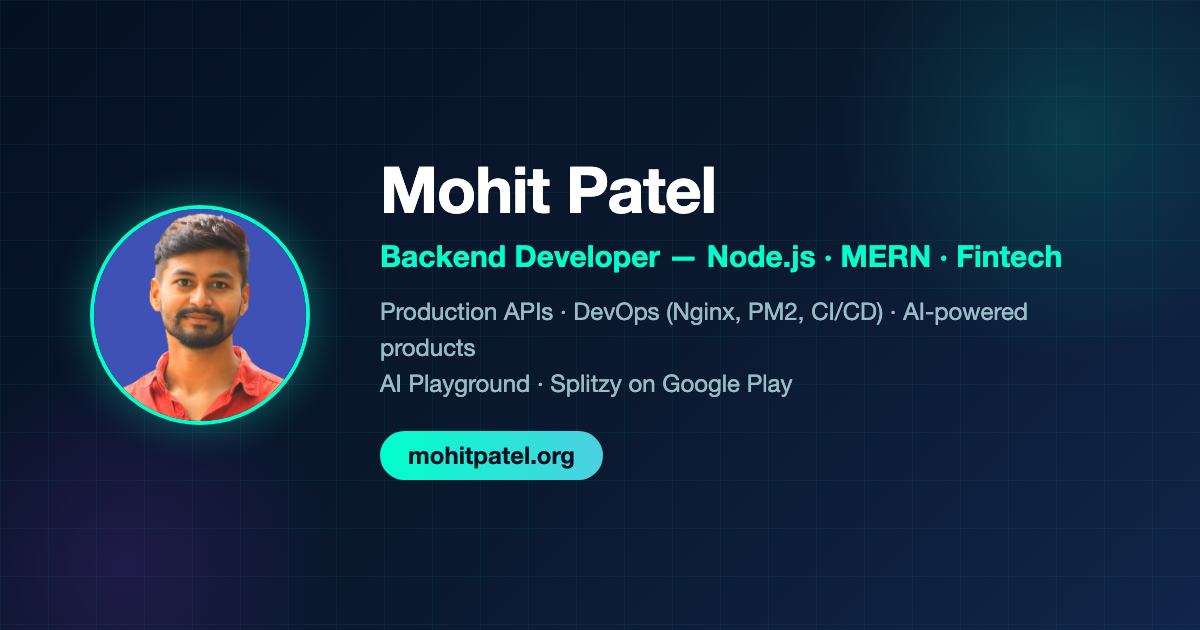
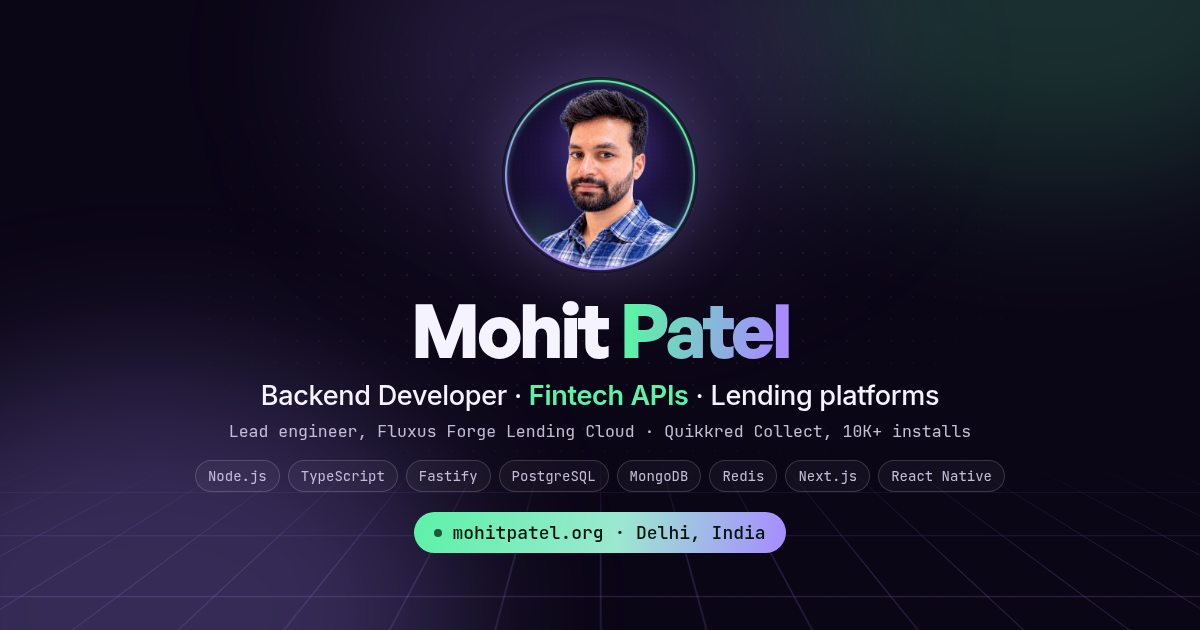
feat(brand): new link-preview card; drop public job-seeking copy
- og-card.png redesigned to match the LinkedIn cover: new photo, centred so
  square crops (WhatsApp) keep the face and name; same URL
- Hero chip: "Open to new opportunities" -> "Shipping fintech APIs at
  Quikkred", linking to #experience
- Contact lead no longer advertises roles

diff --git a/src/components/Hero.jsx b/src/components/Hero.jsx
@@ -195,9 +195,9 @@ export default function Hero({ theme }) {
             </span>
           </motion.div>
 
-          <motion.a href="#contact" className="status-chip" {...fade(0)}>
+          <motion.a href="#experience" className="status-chip" {...fade(0)}>
             <span className="pulse-dot"></span>
-            Open to new opportunities
+            Shipping fintech APIs at Quikkred
             <i className="fas fa-arrow-right" aria-hidden="true"></i>
           </motion.a>
 

diff --git a/src/components/Contact.jsx b/src/components/Contact.jsx
@@ -87,7 +87,7 @@ export default function Contact() {
           index="09"
           eyebrow="Contact"
           title="Let's build something that ships"
-          lead="Open to backend and full-stack roles, freelance APIs and collaborations. I usually reply within a day."
+          lead="Happy to talk backend and fintech engineering, freelance APIs or collaborations. I usually reply within a day."
         />
 
         <div className="contact-grid">
